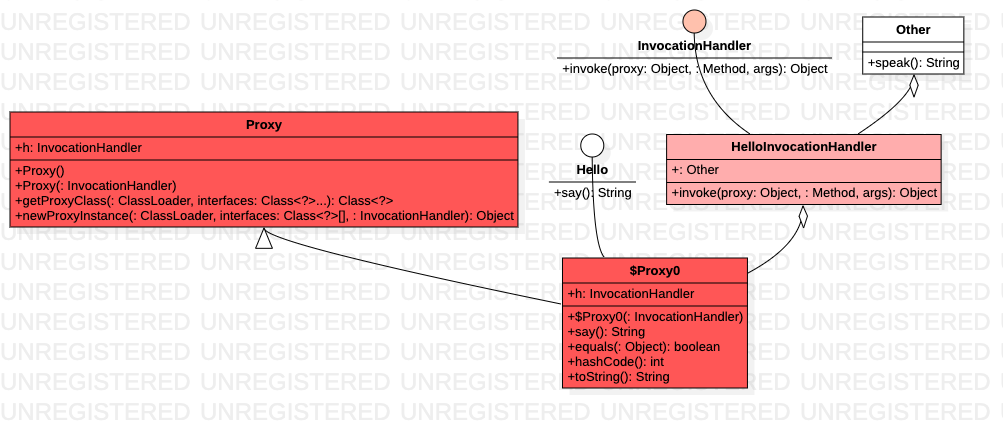
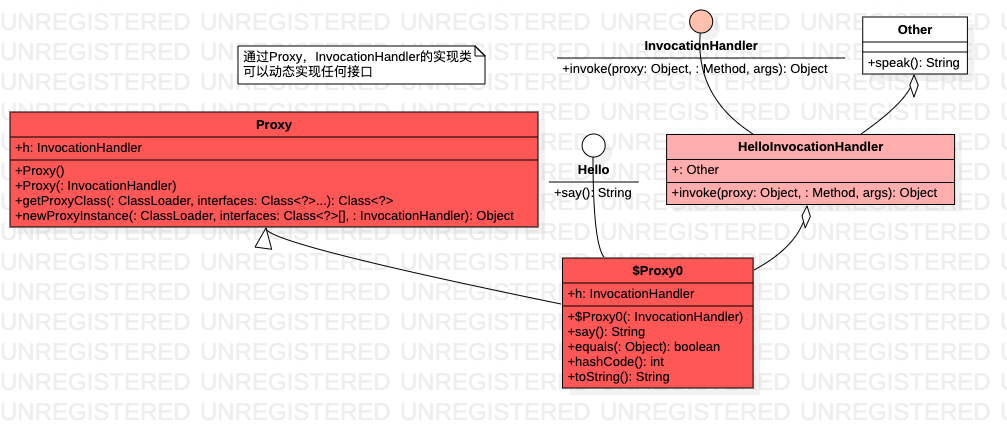
[fix]

diff --git a/_posts/Technology/Java/2018-01-23-reflect.md b/_posts/Technology/Java/2018-01-23-reflect.md
@@ -64,15 +64,40 @@ keywords: java reflect
 扩展：Java编译器将包含本地方法的class对应的方法添加ACC_NATIVE标识，而JVM负责将动态库加载到内存，Java执行引擎执行到本地方法时找到对应的函数，完成本地方法的调用。
 
 为提高效率，当某个反射调用的调用次数在15（默认）以上时，便开始动态生成字节码。直接使用 invoke 指令来调用目标方法。之所以使用 委派模式DelegatingMethodAccessorImpl，便是为了能够在 NativeMethodAccessorImpl 以及 动态实现 中切换。参见下列的GenerateMethodAccessor1, 其在java 代码层面是不存在的，但在字节码层面是存在的。这样 便免掉了java==>c++==> java 的代码切换。
-	
-	// GenerateMethodAccessor1 伪代码
-	public class GenerateMethodAccessor1 extends ...{
-		public Object invoke(Object obj,Object[] args)throws ...{
-			Test.target((int)args[0]);
-			return null;
-		}
-	}			
 
+```java
+// GenerateMethodAccessor1 伪代码
+public class GenerateMethodAccessor1 extends ...{
+    public Object invoke(Object obj,Object[] args)throws ...{
+        Test.target((int)args[0]);
+        return null;
+    }
+}	
+```		
+
+## 反射与动态代理
+
+2018.11.02 补充
+
+前文提到的反射，作用有两类
+
+1. 运行时感知 类的信息
+2. 运行时 加载class 文件到jvm
+
+前两者 算是信息的读取，class 信息事先便已经存在。今天再补充一个：**运行时，动态提供接口实现**。
+
+```
+Proxy.newProxyInstance
+    ProxyClassFactory.apply
+        byte[] proxyClassFile = ProxyGenerator.generateProxyClass(
+            proxyName, interfaces, accessFlags);
+        defineClass0(loader, proxyName,
+                                proxyClassFile, 0, proxyClassFile.length);
+```
+
+
+
+![](/public/upload/java/java_dynamic_proxy.png)
 
 ## 如何提高反射效率
 
@@ -108,61 +133,6 @@ respectively. 当 Field, Method和 Constructor 这些反射对象执行的时候
 
 [jOOQ/jOOR](https://github.com/jOOQ/jOOR)
 
-## 反射与动态代理
-
-2018.11.02 补充
-
-前文提到的反射，作用有两类
-
-1. 运行时感知 类的信息
-2. 运行时 加载class 文件到jvm
-
-前两者 算是信息的读取，class 信息事先便已经存在。今天再补充一个：**运行时，动态提供接口实现**。
-
-动态接口实现有什么用处呢？一些接口实现 取决于 用户的配置，只有加载了用户的配置才可以确认处理逻辑。此时你可以：
-
-1. 根据用户配置穷举所有可能性， 然后根据配置调用 不同的实现类来处理。
-2. 等运行时加载了用户的配置之后，再实现该接口。也就是 将实现接口的行为 放在 运行时。
-
-[Java Reflection - Dynamic Proxies](http://tutorials.jenkov.com/java-reflection/dynamic-proxies.html)Using Java Reflection you create dynamic implementations of interfaces at runtime. You do so using the class java.lang.reflect.Proxy. The name of this class is why I refer to these dynamic interface implementations as dynamic proxies. **我们常说的 dynamic proxies 总让人跟代理模式扯上联系，但实际上说dynamic interface implementations 更为直观。**
-
-我们按下jdk 官方对 `java.lang.reflect.Proxy` 的注释：proxy instance has an associated invocation handler object, which implements the interface  InvocationHandler. A method invocation on a proxy instance through one of its proxy interfaces will be **dispatched** to the  InvocationHandler#invoke invoke method of the instance's invocation handler, passing the proxy instance, a ` java.lang.reflect.Method` object identifying the method that was invoked, and an array of type Object containing the arguments.  The invocation handler processes the encoded method invocation as appropriate and the result that it returns will be returned as the result of the method invocation on the proxy instance.
-
-![](/public/upload/java/java_dynamic_proxy.png)
-
-
-静态实现一个接口， 可以一个方法一个方法的慢慢实现。你动态实现一个接口，没有地方让你一个方法一个方法的实现，只能依靠一个机制。
-
-[Java动态代理的实现机制](http://developer.51cto.com/art/201509/492614.htm)所谓的动态代理就是这样一种class，它是在运行时生成的class，在生成它时你必须提供一组interface给它，然后该 class就宣称它实现了这些interface，但是其实它不会替你做实质性的工作，而是根据你在生成实例时提供的参数handler(即 InvocationHandler接口的实现类),由这个Handler来接管实际的工作。 
-
-[动态代理的本质](https://www.jianshu.com/p/60e283ca765b) 为什么要用 InvocationHandler 插一脚呢？因为`sun.misc.ProxyGenerator` 在生成 proxy class byte[] 时，自然希望具体的方法实现是一个模式化的code，这样才方便自动生成代码。所以将差异化的逻辑 转移到了 InvocationHandler 。
-
-	interface Target {
-		void handle();
-	}
-	
-	public final class $Proxy0 extends Proxy implements Target{
-		...
-		private static Method m3; 
-		...
-		public  $Proxy0(InvocationHandler invocationHandler){
-			super(invocationHandler);
-		}
-		static{
-			try{
-				...
-				m3=Class.forName("Target").getMethod("handle",new Class[0]);
-				...
-			}
-		}
-		public final void handle() throws Exception{
-			try{
-				this.h.invoke(this, m3,null);
-			}catch(...){
-				...
-			}
-		}
-	}
 
 ## 小结
 

diff --git a/_posts/Technology/Java/2020-04-09-java_dynamic_proxy.md b/_posts/Technology/Java/2020-04-09-java_dynamic_proxy.md
@@ -15,6 +15,19 @@ keywords: java dynamic proxy
 
 主要来自极客时间 《RPC实战与核心原理》
 
+动态代理 就是在执行代码的过程中，动态生成了 代理类 Class 的`byte[]`，然后通过defineClass0 加载到jvm 中。
+
+```
+Proxy.newProxyInstance
+    ProxyClassFactory.apply
+        byte[] proxyClassFile = ProxyGenerator.generateProxyClass(
+            proxyName, interfaces, accessFlags);
+        defineClass0(loader, proxyName,
+                                proxyClassFile, 0, proxyClassFile.length);
+```
+
+
+
 ## 从示例代码开始说起
 
 给 Hello 接口生成一个动态代理类，并调用接口 say() 方法，但真实返回的值居然是来自 Other 里面的 speak() 方法返回值。
@@ -110,7 +123,7 @@ public class Proxy implements java.io.Serializable {
 Proxy 包括一个内部类 ProxyClassFactory
 ```java
 private static final class ProxyClassFactory
-    implements BiFunction<ClassLoader, Class<?>[], Class<?>>{
+    implements BiFunction<ClassLoader, Class<?>[], Class<?>{
     // prefix for all proxy class names
     private static final String proxyClassNamePrefix = "$Proxy";
     // next number to use for generation of unique proxy class names
@@ -215,3 +228,19 @@ public final class $Proxy0 extends Proxy implements Hello {
 综上 可以得到一个类图
 
 ![](/public/upload/java/java_dynamic_proxy.png)
+
+[动态代理的本质](https://www.jianshu.com/p/60e283ca765b) **为什么要用 InvocationHandler 插一脚呢？**因为`sun.misc.ProxyGenerator` 在生成 proxy class byte[] 时，自然希望具体的方法实现是一个**模式化的code**，这样才方便自动生成代码。所以**将差异化的逻辑转移到了 InvocationHandler** 。
+
+## dynamic interface implementations
+
+[Java动态代理的实现机制](http://developer.51cto.com/art/201509/492614.htm)所谓的动态代理就是这样一种class，它是在运行时生成的class，在生成它时你必须提供一组interface给它，然后该 class就宣称它实现了这些interface，但是其实它不会替你做实质性的工作，而是根据你在生成实例时提供的参数handler(即 InvocationHandler接口的实现类),由这个Handler来接管实际的工作。 
+
+
+[Java Reflection - Dynamic Proxies](http://tutorials.jenkov.com/java-reflection/dynamic-proxies.html)Using Java Reflection you create dynamic implementations of interfaces at runtime. You do so using the class `java.lang.reflect.Proxy`. The name of this class is why I refer to these dynamic interface implementations as dynamic proxies. **我们常说的 dynamic proxies 总让人跟代理模式扯上联系，但实际上说dynamic interface implementations 更为直观。**
+
+我们按下jdk 官方对 `java.lang.reflect.Proxy` 的注释：proxy instance has an associated invocation handler object, which implements the interface  InvocationHandler. A method invocation on a proxy instance through one of its proxy interfaces will be **dispatched** to the  InvocationHandler#invoke invoke method of the instance's invocation handler, passing the proxy instance, a ` java.lang.reflect.Method` object identifying the method that was invoked, and an array of type Object containing the arguments.  The invocation handler processes the encoded method invocation as appropriate and the result that it returns will be returned as the result of the method invocation on the proxy instance.
+
+动态接口实现有什么用处呢？一些接口实现 取决于 用户的配置，只有加载了用户的配置才可以确认处理逻辑。此时你可以：
+
+1. 根据用户配置穷举所有可能性， 然后根据配置调用 不同的实现类来处理。
+2. 等运行时加载了用户的配置之后，再实现该接口。也就是 将实现接口的行为 放在 运行时。
